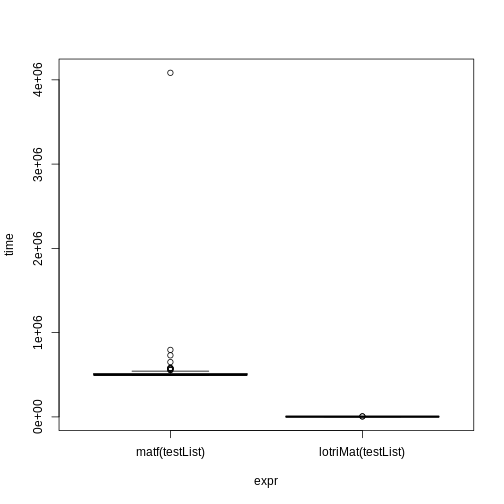
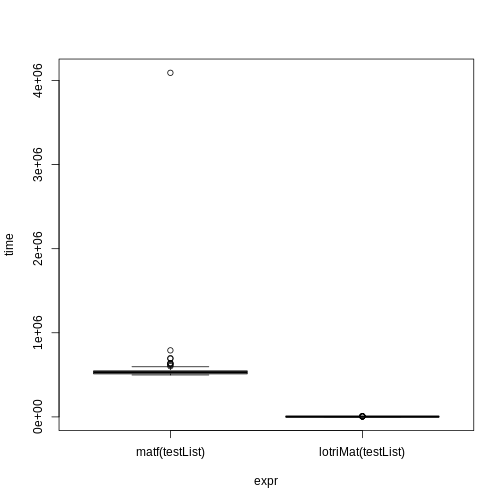
Another Readme update

Changed region(s): [[0.1786, 0.6845, 0.506, 0.744], [0.0595, 0.119, 0.0893, 0.2083]]

diff --git a/README.md b/README.md
@@ -61,6 +61,10 @@ library(lotri)
 
 mat <- lotri(a+b ~ c(1,
                      0.5, 1))
+print(mat)
+#>     a   b
+#> a 1.0 0.5
+#> b 0.5 1.0
 ```
 
 I find it more legible and easier to specify, especially if you have a
@@ -75,6 +79,13 @@ mat <- lotri({
     d +e ~ c(1,
              0.5, 1)
 })
+print(mat)
+#>     a   b c   d   e
+#> a 1.0 0.5 0 0.0 0.0
+#> b 0.5 1.0 0 0.0 0.0
+#> c 0.0 0.0 1 0.0 0.0
+#> d 0.0 0.0 0 1.0 0.5
+#> e 0.0 0.0 0 0.5 1.0
 ```
 
 To fully specify this in base R you would need to use:
@@ -89,6 +100,13 @@ mat <- matrix(c(1, 0.5, 0, 0, 0,
               nrow=5, ncol=5,
               dimnames= list(c("a", "b", "c", "d", "e"),
                              c("a", "b", "c", "d", "e")))
+print(mat)
+#>     a   b c   d   e
+#> a 1.0 0.5 0 0.0 0.0
+#> b 0.5 1.0 0 0.0 0.0
+#> c 0.0 0.0 1 0.0 0.0
+#> d 0.0 0.0 0 1.0 0.5
+#> e 0.0 0.0 0 0.5 1.0
 ```
 
 Of course with the excellent `Matrix` package this is a bit easier:
@@ -108,6 +126,13 @@ mat <- as.matrix(mat)
 ##
 dimnames(mat) <- list(c("a", "b", "c", "d", "e"),
                       c("a", "b", "c", "d", "e"))
+print(mat)
+#>     a   b c   d   e
+#> a 1.0 0.5 0 0.0 0.0
+#> b 0.5 1.0 0 0.0 0.0
+#> c 0.0 0.0 1 0.0 0.0
+#> d 0.0 0.0 0 1.0 0.5
+#> e 0.0 0.0 0 0.5 1.0
 ```
 
 Regardless, I think `lotri` is a bit easier to use.
@@ -164,12 +189,11 @@ print(lotriMat(testList))
 
 mb <- microbenchmark::microbenchmark(matf(testList),lotriMat(testList))
 
-
 print(mb)
 #> Unit: nanoseconds
-#>                expr    min       lq      mean median     uq     max neval
-#>      matf(testList) 492481 496302.5 550753.50 499053 515424 4083346   100
-#>  lotriMat(testList)    910   1137.5   2105.26   2403   2667    5609   100
+#>                expr    min       lq      mean   median     uq     max neval
+#>      matf(testList) 498119 511556.5 576768.02 530294.5 547773 4091618   100
+#>  lotriMat(testList)    920   1203.5   2422.58   2589.5   2865    6830   100
 
 plot(mb)
 ```
